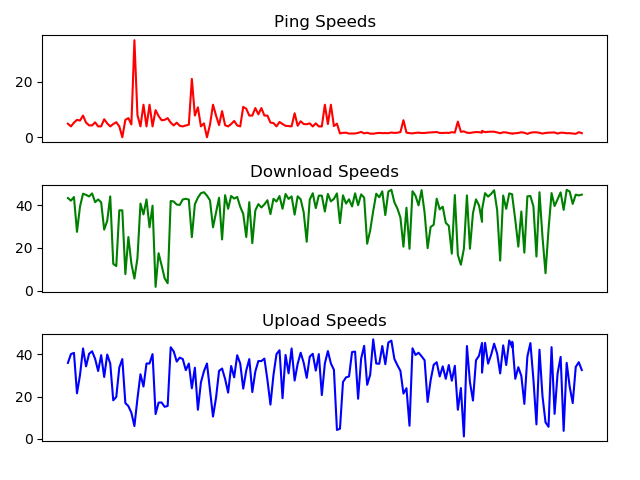
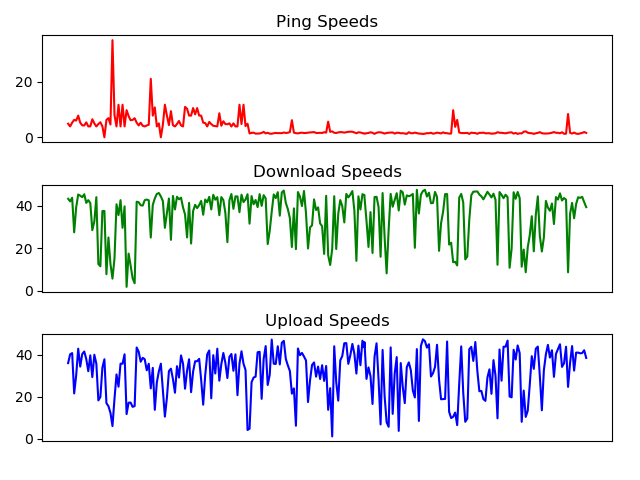
Updated with the latest dataset

diff --git a/README.md b/README.md
@@ -3,6 +3,8 @@ Test internet speeds; save results to a .txt and .csv file; plot graphs with the
 
 This repository contains 2 scripts: the first one, getInternetSpeeds.py tests the current internet speeds and writes the results to a .txt file; the second script, plot_internet_speeds.py, reads the data from the .txt file and plots a graph for each type of speed
 
+Note: I stopped collecting data in March 31st 2019.
+
 ### Structure
 * root
   * getInternetSpeeds2.py -> script to scrape my internet speeds and save the results to a .txt and a .csv file
@@ -15,6 +17,7 @@ This repository contains 2 scripts: the first one, getInternetSpeeds.py tests th
 * (mar. 28th 2018) Updated the main script to take outliers into consideration; also added more recent graph screenshots
 * (jan. 3rd 2019) Reuploaded all files in the repo to clean up and organize folders. These are the latest files which I am currently using to scrape my internet speeds once per day at home
 * (feb. 26th 2019) Updated the repo with the most recent dataset
+* (june 16th 2019) Updated with the latest dataset
 
 ### External references:
 * pyspeedtest: https://github.com/fopina/pyspeedtest (Not using this module anymore)
